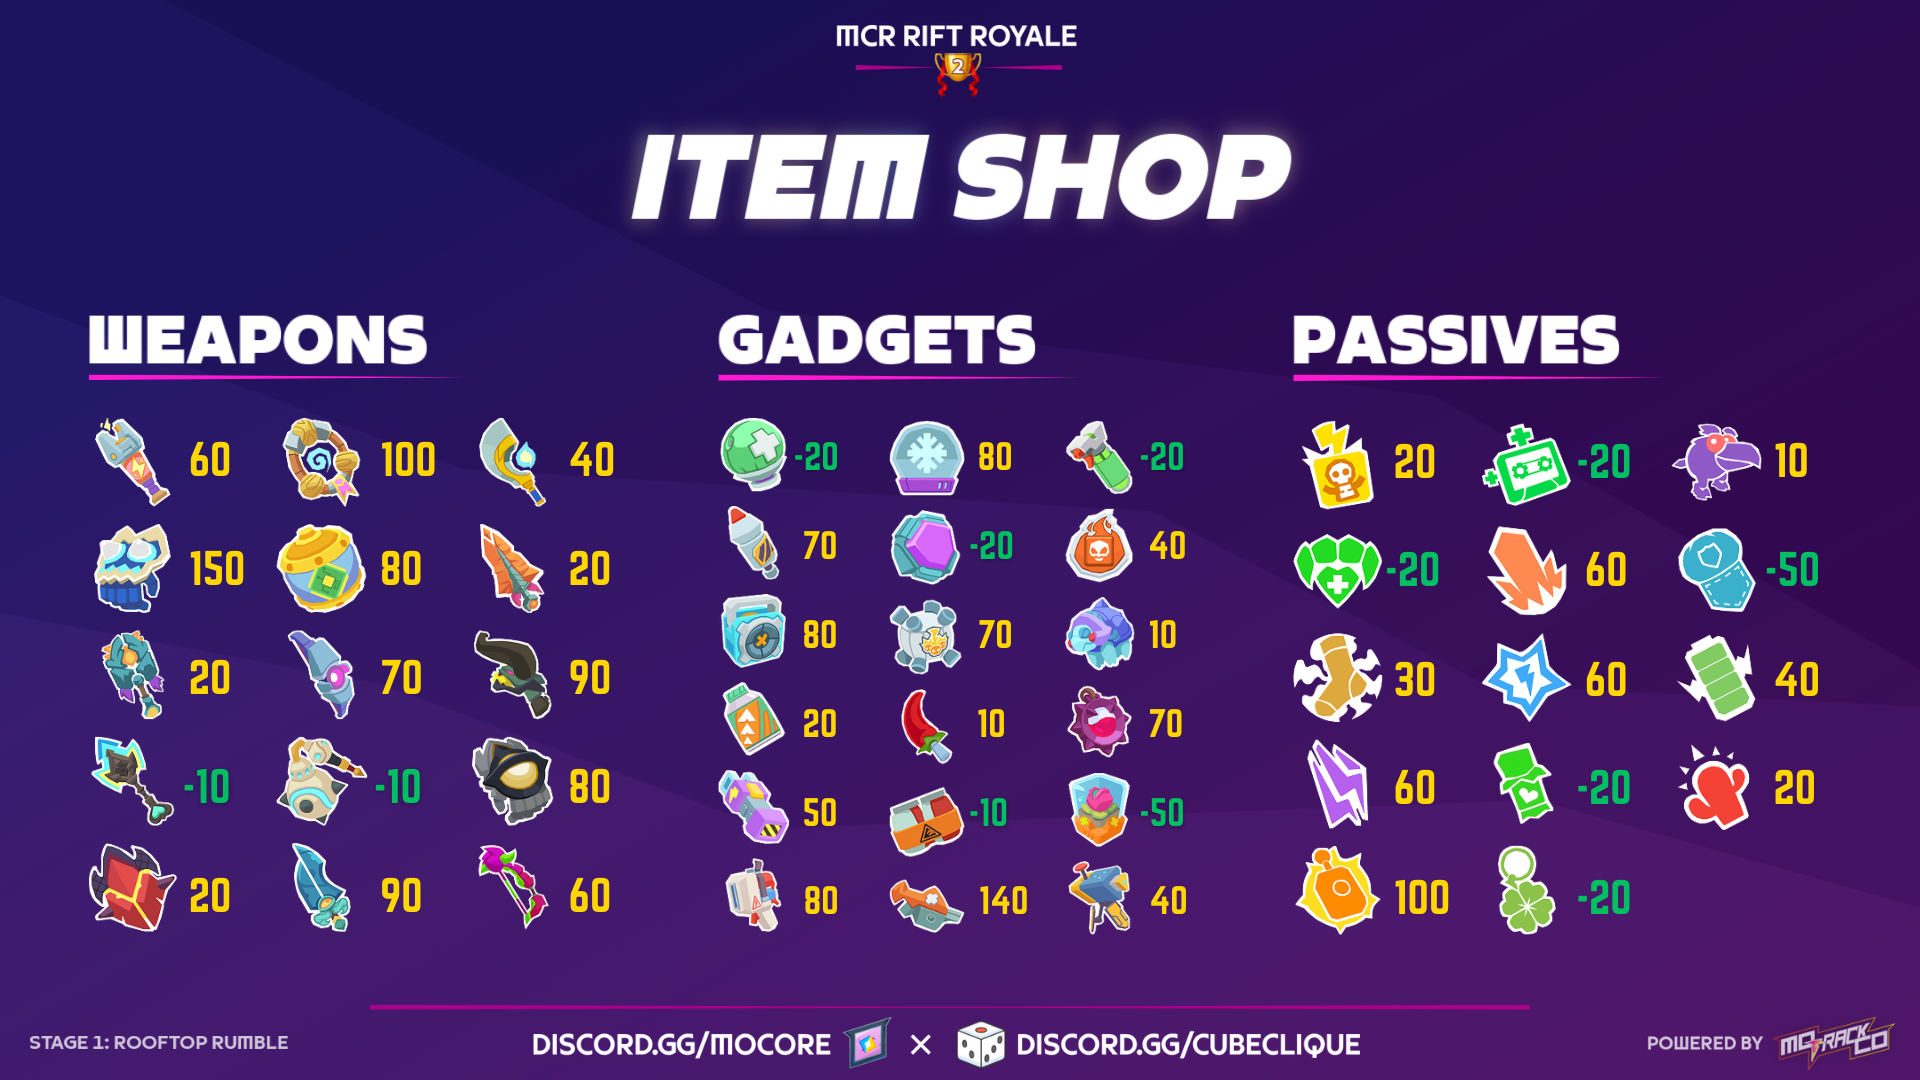
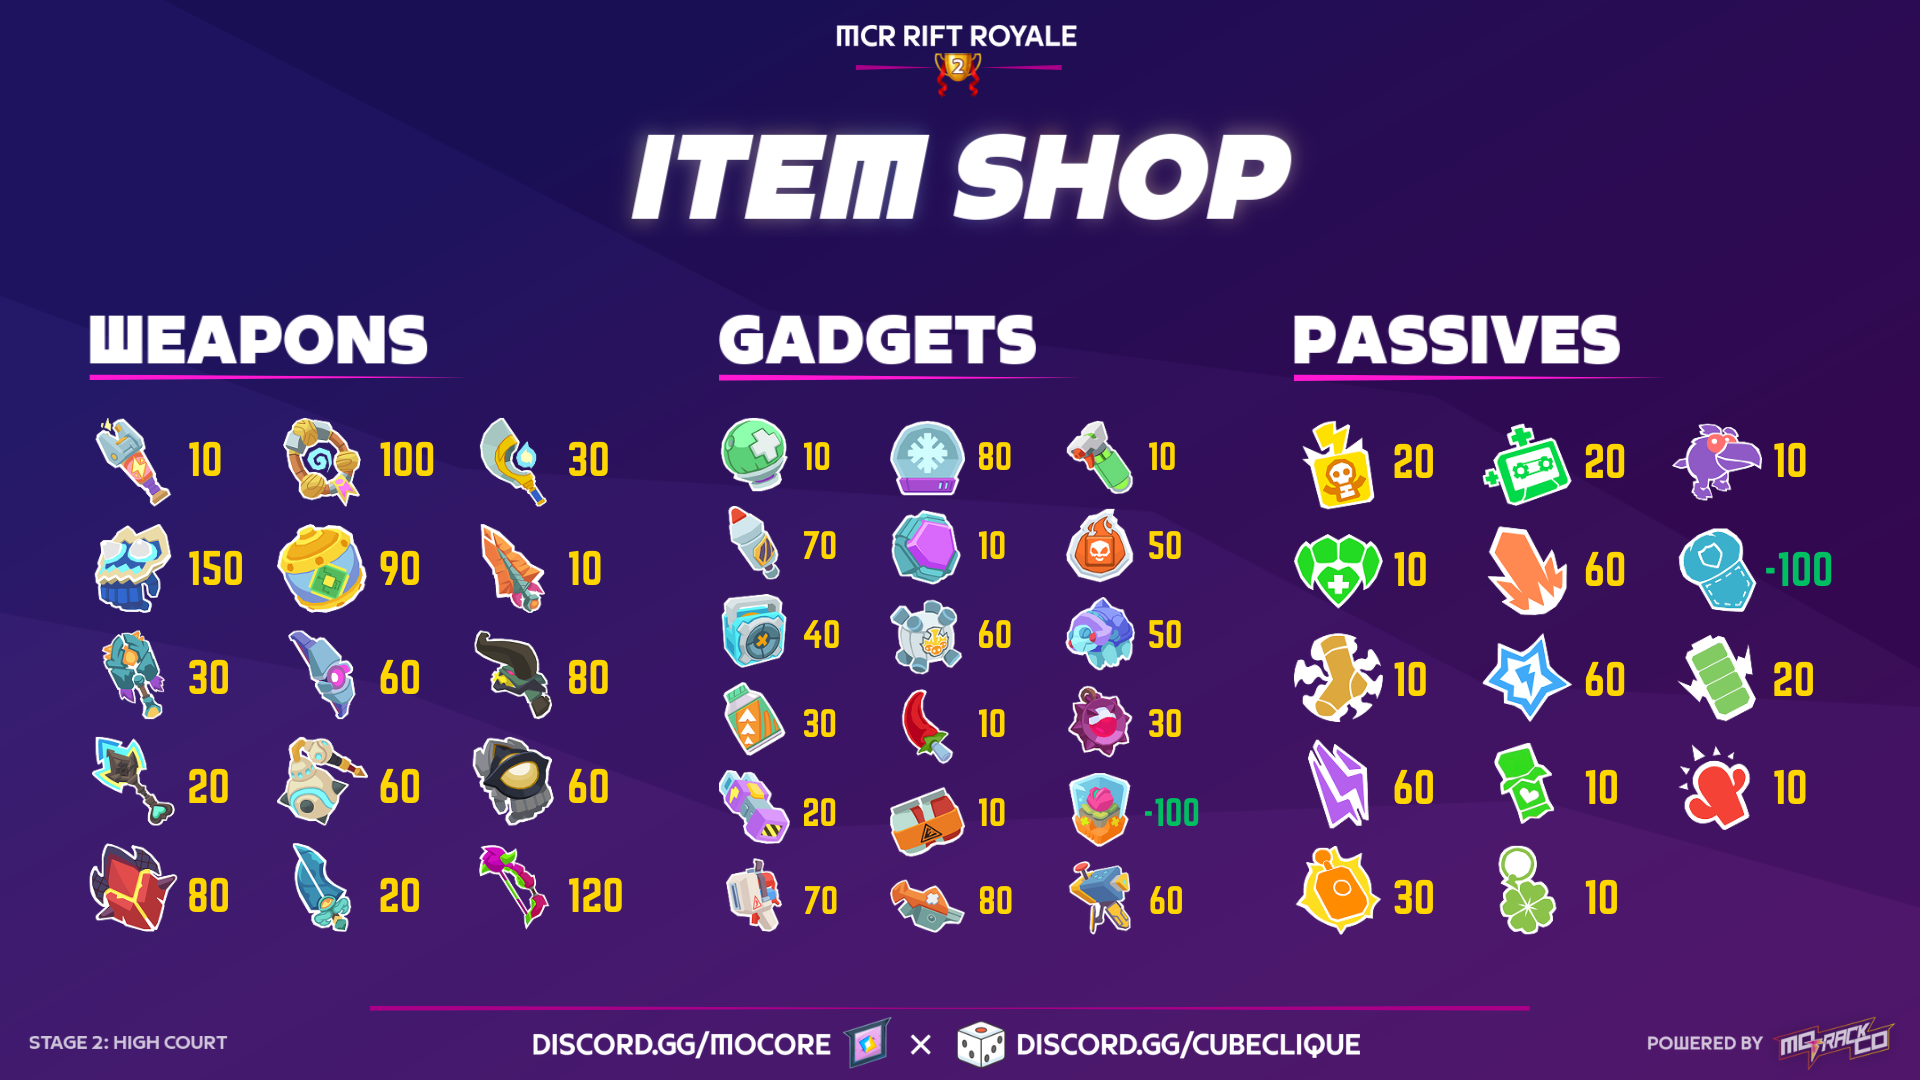
#49 - MCR tourney 2 Stage 2

diff --git a/js/mcr.js b/js/mcr.js
@@ -2,58 +2,58 @@
 
 const weapons = {
     "Techno Fists": 150,
+    "Poison Bow": 120,
     "Portable Portal": 100,
-    "Hornbow": 90,
-    "Jaded Blades": 90,
-    "CPU Bomb": 80,
-    "Singularity": 80,
-    "Speedshot": 70,
-    "Poison Bow": 60,
-    "Monster Slugger": 60,
-    "Spinsickle": 40,
-    "Toothpick & Shield": 20,
-    "Wolf Stick": 20,
-    "Buzz-Kill": 20,
-    "Staff of Good Vibes": -10,
-    "Medicine Ball": -10
+    "CPU Bomb": 90,
+    "Toothpick & Shield": 80,
+    "Hornbow": 80,
+    "Singularity": 60,
+    "Speedshot": 60,
+    "Medicine Ball": 60,
+    "Spinsickle": 30,
+    "Wolf Stick": 30,
+    "Jaded Blades": 20,
+    "Staff of Good Vibes": 20,
+    "Monster Slugger": 10,
+    "Buzz-Kill": 10
 };
 
 const gadgets = {
-    "Super Loud Whistle": 140,
+    "Super Loud Whistle": 80,
     "Snow Globe": 80,
-    "Pepper Spray": 80,
-    "Boombox": 80,
-    "Multi Zapper": 70,
+    "Pepper Spray": 70,
     "Smart Fireworks": 70,
-    "Very Mean Pendant": 70,
-    "Monster Taser": 50,
-    "P.E.W 3000": 40,
-    "Really Cool Sticker": 40,
-    "Vitamin Shot": 20,
-    "Shelldon": 10,
+    "Multi Zapper": 60,
+    "P.E.W 3000": 60,
+    "Really Cool Sticker": 50,
+    "Shelldon": 50,
+    "Boombox": 40,
+    "Very Mean Pendant": 30,
+    "Vitamin Shot": 30,
+    "Monster Taser": 20,
     "Spicy Dagger": 10,
-    "Explosive 6-Pack": -10,
-    "Splash Heal": -20,
-    "Revitalizing Mist": -20,
-    "Life Jacket": -20,
-    "Feel-Better Bloom": -50
+    "Explosive 6-Pack": 10,
+    "Splash Heal": 10,
+    "Revitalizing Mist": 10,
+    "Life Jacket": 10,
+    "Feel-Better Bloom": -100
 };
 
 const passives = {
-    "Explode-O-Matic": 100,
     "Unstable Lightning": 60,
     "Unstable Lazer": 60,
     "Unstable Beam": 60,
-    "Gadget Battery": 40,
-    "Smelly Socks": 30,
-    "Cactus Charm": 20,
+    "Explode-O-Matic": 30,
+    "Gadget Battery": 20,
     "Auto Zapper": 20,
+    "R&B Mixtape": 20,
+    "Cactus Charm": 10,
+    "Smelly Socks": 10,
     "Chicken-O-Matic": 10,
-    "Healthy Snacks": -20,
-    "Healing Charm": -20,
-    "Vampire Teeth": -20,
-    "R&B Mixtape": -20,
-    "Pocket Airbag": -50
+    "Healthy Snacks": 10,
+    "Healing Charm": 10,
+    "Vampire Teeth": 10,
+    "Pocket Airbag": -100
 };
 
 /*** FINALISTS ***/
